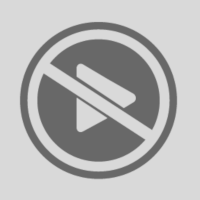
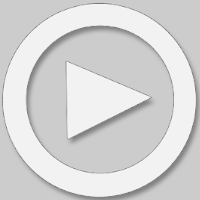
fix de esc en modal de documentos y cambiado size #2976. cambiado disenio de play/pause audio #2981. cambiado icono de play de video #2981

diff --git a/src/components/Timeline/TimelineItemHorizontal.vue b/src/components/Timeline/TimelineItemHorizontal.vue
@@ -51,7 +51,8 @@
                         <div class="map-container">
                             <LMap ref="itemMap">
                                 <LTileLayer :url="urlImageMap" :attribution="attributionMap"></LTileLayer>
-                                <LMarker v-for="(marker, index) in itemMarkers" :lat-lng="marker" :key="index"></LMarker>
+                                <LMarker v-for="(marker, index) in itemMarkers" :lat-lng="marker"
+                                         :key="index"></LMarker>
                             </LMap>
                             {{ itemProvenance }}
                         </div>
@@ -119,9 +120,10 @@
                                         <div class="col-lg-3 col-md-4 col-6" v-for="(doc, index) in media.application">
                                             <h6>{{ doc.name }}</h6>
                                             <a :id="'doc-' + index" href="javascript:" class="d-block mb-4 doc"
-                                            :data-index="index" @click="showModalItemDocumentDetailIndividual(doc.url)">
+                                               :data-index="index"
+                                               @click="showModalItemDocumentDetailIndividual(doc.url)">
                                                 <img class="img-fluid img-thumbnail"
-                                                    :src="doc.thumbnail" alt="">
+                                                     :src="doc.thumbnail" alt="">
                                             </a>
                                         </div>
                                     </div>
@@ -236,11 +238,11 @@
         </b-modal>
 
         <b-modal no-close-on-backdrop ref="item-document-detail-individual" size="xl" scrollable
-                 modal-class="modal-item-detail"
-                 header-text-variant="light" hide-footer>
+                 modal-class="modal-item-detail modal-item-detail-document"
+                 header-text-variant="light" hide-footer @hidden="hideModalItemDocumentDetailIndividual">
             <template slot="modal-header" slot-scope="{ close }">
                 {{ itemTitle }}
-                <span class="modal-button-close float-right" v-b-tooltip.hover title="Cerrar modal"
+                <span class="modal-button-close float-right"
                       @click="hideModalItemDocumentDetailIndividual"><i
                         class="far fa-times-circle fa-3x"></i></span>
             </template>
@@ -264,7 +266,7 @@
     import timelineMixin from '../../mixins/timelineMixin';
     import timelineHorizontalMixin from '../../mixins/timelineHorizontalMixin';
 
-    import { LMap, LTileLayer, LMarker, LIcon} from "vue2-leaflet"
+    import {LMap, LTileLayer, LMarker, LIcon} from "vue2-leaflet"
 
     export default {
         name: "TimelineItem",
@@ -272,7 +274,7 @@
             timelineMixin,
             timelineHorizontalMixin,
         ],
-        components:{
+        components: {
             LMap,
             LTileLayer,
             LMarker,
@@ -297,7 +299,8 @@
                     audio: []
                 },
                 audioList: [],
-                itemsRelatedEspecific: []
+                itemsRelatedEspecific: [],
+                modalDocumentIsVisible: false
             }
         },
         filters: {
@@ -410,8 +413,8 @@
                 map.invalidateSize();
 
                 if (this.itemCenterMarker !== null && this.itemMarkers.length > 0) {
-                    const [ ...coordinates ] = this.itemMarkers.map(marker => [marker.lat, marker.lng]);
-                    map.fitBounds([ ...coordinates ]);
+                    const [...coordinates] = this.itemMarkers.map(marker => [marker.lat, marker.lng]);
+                    map.fitBounds([...coordinates]);
                     map.panTo(this.itemCenterMarker);
                 }
             },
@@ -521,7 +524,7 @@
                     const geocoder = new google.maps.Geocoder();
                     let address = this.itemProvenance;
 
-                    await geocoder.geocode({ 'address': address}, (response, status) => {
+                    await geocoder.geocode({'address': address}, (response, status) => {
                         if (status === 'OK') {
                             let firstResult = response[0];
                             let latG = firstResult.geometry.location.lat();
@@ -563,10 +566,12 @@
 
                 this.selectDocument(url);
 
-                this.$refs['item-document-detail-individual'].show()
+                this.$refs['item-document-detail-individual'].show();
+                this.modalDocumentIsVisible = true;
             },
             hideModalItemDocumentDetailIndividual() {
-                this.$refs['item-document-detail-individual'].hide()
+                this.$refs['item-document-detail-individual'].hide();
+                this.modalDocumentIsVisible = false;
             },
             selectDocument(url) {
                 this.documentUrl = url;
@@ -580,9 +585,9 @@
                 map.invalidateSize();
 
                 map.whenReady(() => {
-                    const [ ...coordinates ] = this.itemMarkers.map(marker => [marker.lat, marker.lng]);
+                    const [...coordinates] = this.itemMarkers.map(marker => [marker.lat, marker.lng]);
 
-                    map.fitBounds([ ...coordinates ]);
+                    map.fitBounds([...coordinates]);
                     map.panTo(this.itemCenterMarker);
                 });
             }
@@ -593,7 +598,7 @@
         updated() {
 
             //Cerrar modal luego de quitar el focus de imágenes o videos
-            document.addEventListener('keydown', (evt) =>  {
+            document.addEventListener('keydown', (evt) => {
                 evt = evt || window.event;
                 let isEscape = false;
 
@@ -604,7 +609,7 @@
                 }
                 if (isEscape) {
 
-                    if (document.querySelector('.lightgallery') === null){
+                    if (document.querySelector('.lightgallery') === null && this.modalDocumentIsVisible === false) {
                         this.$refs['item-detail'].hide();
                     }
                 }
@@ -721,40 +726,6 @@
         color: #65B32E;
     }
 
-    .seeMore {
-        font-style: normal;
-        font-weight: bold;
-        padding-top: 10px;
-        text-align: right;
-        margin-bottom: 4px;
-        padding-bottom: 4px;
-        color: #65B32E;
-        text-decoration: none !important;
-        cursor: pointer;
-    }
-
-    .button-media {
-        font-weight: bold;
-        color: #152f4e;
-    }
-
-    .fa-xs {
-        color: rgb(193, 193, 193);
-    }
-
-    .button-media:hover {
-        cursor: pointer;
-    }
-
-    .button-media-icon {
-        background: #152f4e;
-        border-radius: 50%;
-        height: 28px;
-        width: 28px;
-        padding-left: 8px;
-        float: right;
-    }
-
     .button-media-icon-modal {
         color: #152f4e;
         background: white;
@@ -823,6 +794,17 @@
 
 <style>
     @import "~leaflet/dist/leaflet.css";
+
+    .aplayer-pic .aplayer-play {
+        border: 2px solid #fff !important;
+        background: #000 !important;
+    }
+
+    .aplayer-pic .aplayer-pause {
+        border: 2px solid #fff !important;
+        background: #000 !important;
+    }
+
     .nav-tabs {
         background: #213853;
         border: 0 !important;
@@ -869,4 +851,10 @@
         color: white;
         background: #152f4e;
     }
+
+    .modal-item-detail-document > .modal-dialog {
+        top: 10%;
+        width: 62%;
+    }
+
 </style>

diff --git a/src/components/Timeline/TimelineHorizontal.vue b/src/components/Timeline/TimelineHorizontal.vue
@@ -380,6 +380,7 @@
         padding-top: 250px;
         overflow: hidden;
     }
+
     .timeline-dl {
         padding-top: 30px;
         height: 100%;
